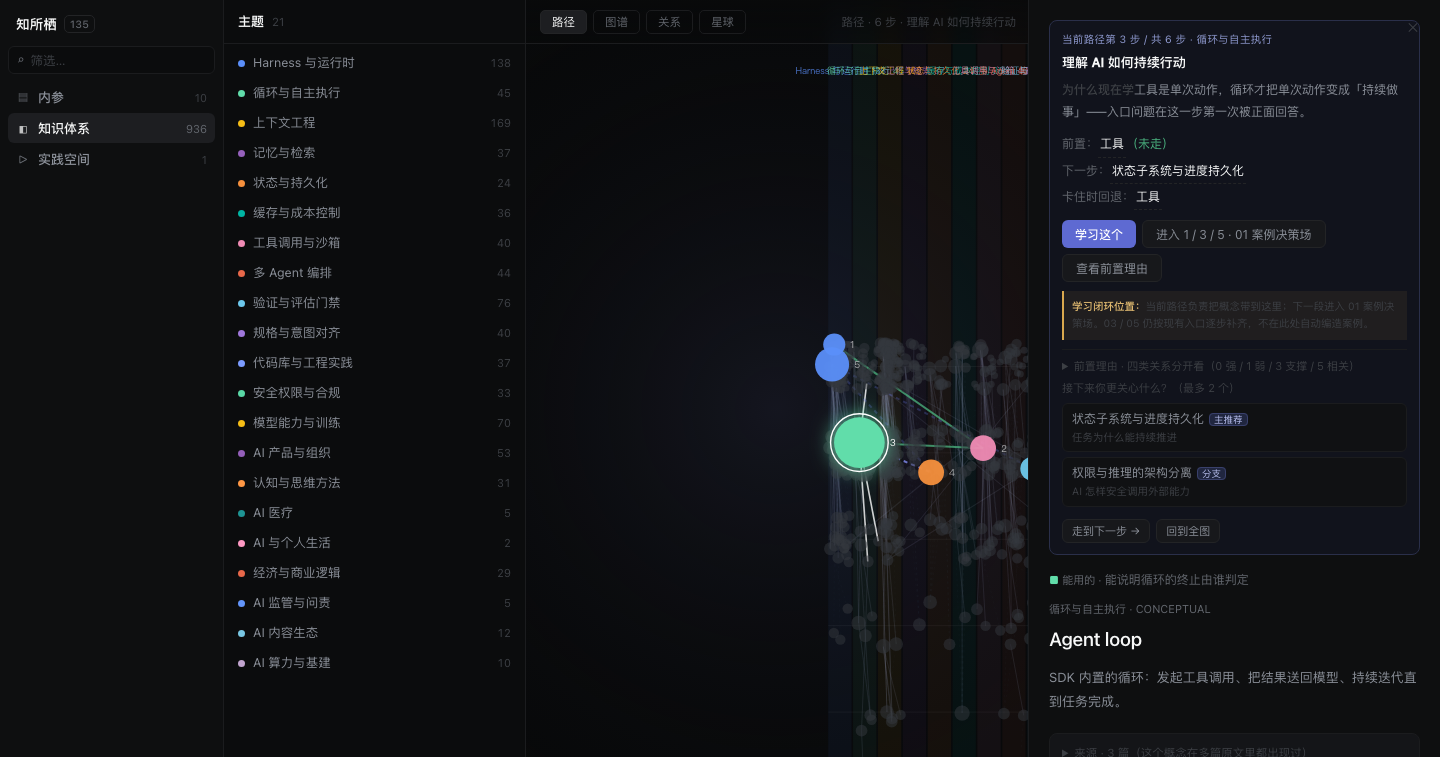
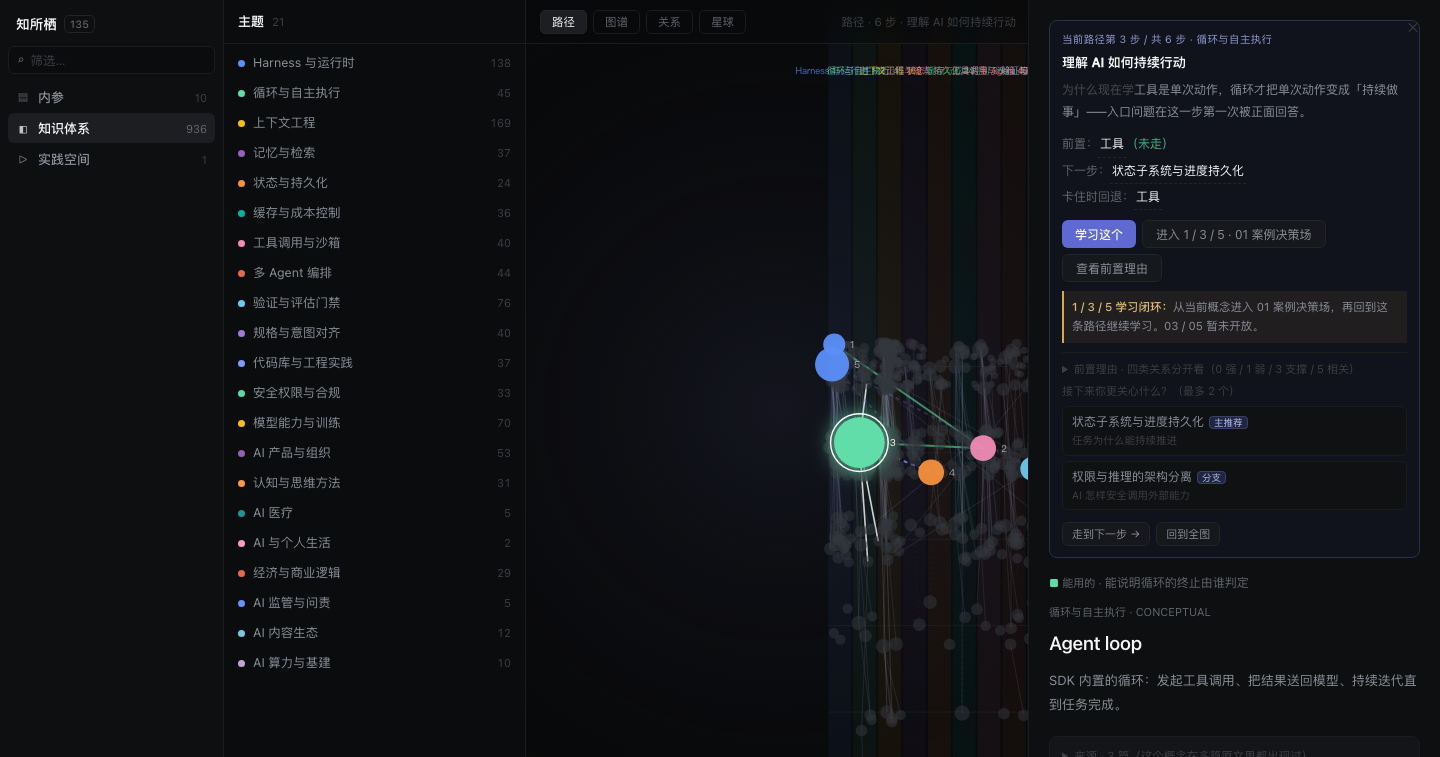
fix: preserve concept context when entering practice from a path

diff --git a/prototype/知所栖-壳.html b/prototype/知所栖-壳.html
@@ -170,7 +170,7 @@ button{font-family:inherit}
 .pctx .nav i{font-style:normal;color:#4cb782}
 .pctx .nav u{text-decoration:none;color:var(--fg4);font-size:11px}
 .pctx .acts{display:flex;gap:6px;flex-wrap:wrap;margin-top:10px}
-.pctx .loop-note{margin-top:9px;padding:7px 8px;border-left:2px solid #d9a84e;background:rgba(217,168,78,.08);font-size:10.5px;line-height:1.65;color:var(--fg4)}
+.pctx .loop-note{margin-top:9px;padding:7px 8px;border-left:2px solid #d9a84e;background:rgba(217,168,78,.08);font-size:11.5px;line-height:1.65;color:var(--fg2)}
 .pctx .loop-note b{color:#e4bd72;font-weight:500}
 .pctx.off{border-color:var(--line2);background:#101113;font-size:11.5px;color:var(--fg4);line-height:1.8}
 .pctx.off button{background:#17181b;border:1px solid var(--line2);border-radius:5px;color:var(--fg2);
@@ -1178,10 +1178,10 @@ function pathBlock(id) {
     </div>
     <div class="acts">
       <button class="jbtn" onclick="focusProof()">学习这个</button>
-      <button class="jbtn ghost" onclick="openPractice()">进入 1 / 3 / 5 · 01 案例决策场</button>
+      <button class="jbtn ghost" onclick="openPractice('${id}')">进入 1 / 3 / 5 · 01 案例决策场</button>
       <button class="jbtn ghost" onclick="this.closest('.pctx').querySelector('details').open=true">查看前置理由</button>
     </div>
-    <div class="loop-note"><b>学习闭环位置：</b>当前路径负责把概念带到这里；下一段进入 01 案例决策场。03 / 05 仍按现有入口逐步补齐，不在此处自动编造案例。</div>
+    <div class="loop-note"><b>1 / 3 / 5 学习闭环：</b>从当前概念进入 01 案例决策场，再回到这条路径继续学习。03 / 05 暂未开放。</div>
     <details>
       <summary>前置理由 · 四类关系分开看（${hard.length} 强 / ${soft.length} 弱 / ${st.support.sources} 支撑 / ${st.relatedCount} 相关）</summary>
       <h5>强前置 hard · 不懂就立不住（默认进主路径）</h5>
@@ -1588,16 +1588,23 @@ function renderList() {
 }
 window.renderList = renderList;
 
-function openPractice() {
+function openPractice(originId = null) {
   currentView = 'practice'; themeId = null; filter = null;
   document.querySelectorAll('.r-item').forEach(b => b.classList.toggle('on', b.dataset.view === 'practice'));
   closePanel();
   const reader = document.getElementById('reader');
   const concept = nodes.find(n => n.name === '上下文腐烂');
+  const origin = byId.get(originId);
+  const originStep = origin ? routeIndexOf(origin.id) : -1;
+  const matched = !!origin && origin.id === concept?.id;
   reader.innerHTML = `<div class="nei"><div class="nei-crumb"><b>实践空间</b><span>›</span><span>1 / 3 / 5</span></div>
     <h1 class="nei-title">从概念进入实践</h1><div class="nei-meta"><span>当前只开放 01 MVP</span></div>
+    ${origin ? `<div class="practice-card"><h2>当前概念：${esc(origin.name)}</h2>
+      <div class="mut">${originStep >= 0 ? `${esc(activeRoute().title)} · 第 ${originStep + 1} / ${activeRoute().steps.length} 步。` : ''}${matched ? '已接入本轮 A 判断材料。' : '这个概念的 01 判断材料尚未装配，当前不标记完成。'}</div>
+      <button class="jbtn ghost" onclick="returnToPracticeOrigin('${origin.id}')">${originStep >= 0 ? '返回这一步的路径与概念' : '返回当前概念'}</button></div>` : ''}
     <div class="practice-card"><h2>01 · 案例决策场</h2><div class="mut">从一个概念匹配候选案例，再只选一个案例和一个正确方向。本轮已接入「上下文腐烂」。</div>
-      ${concept ? `<button class="jbtn" onclick="openPanel('${concept.id}')">继续：上下文腐烂 →</button>` : '<div class="mut">当前概念地图未找到测试入口。</div>'}</div>
+      ${origin && !matched ? '<div class="mut">下面是另一主题的已跑通示例，不计入当前路线进度。</div>' : ''}
+      ${concept ? `<button class="jbtn" onclick="openPanel('${concept.id}')">${origin && !matched ? '查看独立示例' : '继续'}：上下文腐烂 →</button>` : '<div class="mut">当前概念地图未找到测试入口。</div>'}</div>
     <div class="practice-card" style="opacity:.55"><h2>03 · 费曼演练室</h2><div class="mut">等 01 MVP 跑通后接入。</div></div>
     <div class="practice-card" style="opacity:.55"><h2>05 · 技术实验台</h2><div class="mut">等 01 MVP 跑通后接入。</div></div></div>`;
   reader.classList.add('on');
@@ -1606,6 +1613,15 @@ function openPractice() {
   renderList();
 }
 window.openPractice = openPractice;
+function returnToPracticeOrigin(id) {
+  const idx = routeIndexOf(id);
+  document.getElementById('reader').classList.remove('on');
+  currentView = 'graph'; themeId = null; filter = null;
+  document.querySelectorAll('.r-item').forEach(b => b.classList.toggle('on', b.dataset.view === 'graph'));
+  if (idx >= 0) { routeStepIdx = idx; setMode('path'); }
+  renderList(); openPanel(id); syncPath();
+}
+window.returnToPracticeOrigin = returnToPracticeOrigin;
 
 function syncListSel() {
   document.querySelectorAll('#lp-body .row').forEach(r => r.classList.remove('on'));

diff --git a/scripts/shell.template.html b/scripts/shell.template.html
@@ -170,7 +170,7 @@ button{font-family:inherit}
 .pctx .nav i{font-style:normal;color:#4cb782}
 .pctx .nav u{text-decoration:none;color:var(--fg4);font-size:11px}
 .pctx .acts{display:flex;gap:6px;flex-wrap:wrap;margin-top:10px}
-.pctx .loop-note{margin-top:9px;padding:7px 8px;border-left:2px solid #d9a84e;background:rgba(217,168,78,.08);font-size:10.5px;line-height:1.65;color:var(--fg4)}
+.pctx .loop-note{margin-top:9px;padding:7px 8px;border-left:2px solid #d9a84e;background:rgba(217,168,78,.08);font-size:11.5px;line-height:1.65;color:var(--fg2)}
 .pctx .loop-note b{color:#e4bd72;font-weight:500}
 .pctx.off{border-color:var(--line2);background:#101113;font-size:11.5px;color:var(--fg4);line-height:1.8}
 .pctx.off button{background:#17181b;border:1px solid var(--line2);border-radius:5px;color:var(--fg2);
@@ -1178,10 +1178,10 @@ function pathBlock(id) {
     </div>
     <div class="acts">
       <button class="jbtn" onclick="focusProof()">学习这个</button>
-      <button class="jbtn ghost" onclick="openPractice()">进入 1 / 3 / 5 · 01 案例决策场</button>
+      <button class="jbtn ghost" onclick="openPractice('${id}')">进入 1 / 3 / 5 · 01 案例决策场</button>
       <button class="jbtn ghost" onclick="this.closest('.pctx').querySelector('details').open=true">查看前置理由</button>
     </div>
-    <div class="loop-note"><b>学习闭环位置：</b>当前路径负责把概念带到这里；下一段进入 01 案例决策场。03 / 05 仍按现有入口逐步补齐，不在此处自动编造案例。</div>
+    <div class="loop-note"><b>1 / 3 / 5 学习闭环：</b>从当前概念进入 01 案例决策场，再回到这条路径继续学习。03 / 05 暂未开放。</div>
     <details>
       <summary>前置理由 · 四类关系分开看（${hard.length} 强 / ${soft.length} 弱 / ${st.support.sources} 支撑 / ${st.relatedCount} 相关）</summary>
       <h5>强前置 hard · 不懂就立不住（默认进主路径）</h5>
@@ -1588,16 +1588,23 @@ function renderList() {
 }
 window.renderList = renderList;
 
-function openPractice() {
+function openPractice(originId = null) {
   currentView = 'practice'; themeId = null; filter = null;
   document.querySelectorAll('.r-item').forEach(b => b.classList.toggle('on', b.dataset.view === 'practice'));
   closePanel();
   const reader = document.getElementById('reader');
   const concept = nodes.find(n => n.name === '上下文腐烂');
+  const origin = byId.get(originId);
+  const originStep = origin ? routeIndexOf(origin.id) : -1;
+  const matched = !!origin && origin.id === concept?.id;
   reader.innerHTML = `<div class="nei"><div class="nei-crumb"><b>实践空间</b><span>›</span><span>1 / 3 / 5</span></div>
     <h1 class="nei-title">从概念进入实践</h1><div class="nei-meta"><span>当前只开放 01 MVP</span></div>
+    ${origin ? `<div class="practice-card"><h2>当前概念：${esc(origin.name)}</h2>
+      <div class="mut">${originStep >= 0 ? `${esc(activeRoute().title)} · 第 ${originStep + 1} / ${activeRoute().steps.length} 步。` : ''}${matched ? '已接入本轮 A 判断材料。' : '这个概念的 01 判断材料尚未装配，当前不标记完成。'}</div>
+      <button class="jbtn ghost" onclick="returnToPracticeOrigin('${origin.id}')">${originStep >= 0 ? '返回这一步的路径与概念' : '返回当前概念'}</button></div>` : ''}
     <div class="practice-card"><h2>01 · 案例决策场</h2><div class="mut">从一个概念匹配候选案例，再只选一个案例和一个正确方向。本轮已接入「上下文腐烂」。</div>
-      ${concept ? `<button class="jbtn" onclick="openPanel('${concept.id}')">继续：上下文腐烂 →</button>` : '<div class="mut">当前概念地图未找到测试入口。</div>'}</div>
+      ${origin && !matched ? '<div class="mut">下面是另一主题的已跑通示例，不计入当前路线进度。</div>' : ''}
+      ${concept ? `<button class="jbtn" onclick="openPanel('${concept.id}')">${origin && !matched ? '查看独立示例' : '继续'}：上下文腐烂 →</button>` : '<div class="mut">当前概念地图未找到测试入口。</div>'}</div>
     <div class="practice-card" style="opacity:.55"><h2>03 · 费曼演练室</h2><div class="mut">等 01 MVP 跑通后接入。</div></div>
     <div class="practice-card" style="opacity:.55"><h2>05 · 技术实验台</h2><div class="mut">等 01 MVP 跑通后接入。</div></div></div>`;
   reader.classList.add('on');
@@ -1606,6 +1613,15 @@ function openPractice() {
   renderList();
 }
 window.openPractice = openPractice;
+function returnToPracticeOrigin(id) {
+  const idx = routeIndexOf(id);
+  document.getElementById('reader').classList.remove('on');
+  currentView = 'graph'; themeId = null; filter = null;
+  document.querySelectorAll('.r-item').forEach(b => b.classList.toggle('on', b.dataset.view === 'graph'));
+  if (idx >= 0) { routeStepIdx = idx; setMode('path'); }
+  renderList(); openPanel(id); syncPath();
+}
+window.returnToPracticeOrigin = returnToPracticeOrigin;
 
 function syncListSel() {
   document.querySelectorAll('#lp-body .row').forEach(r => r.classList.remove('on'));
